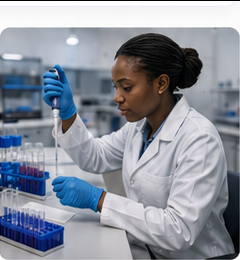
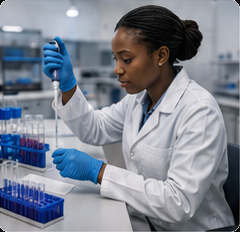
Strip remaining white header band from Solution photo

diff --git a/assets/genehus.css b/assets/genehus.css
@@ -634,7 +634,27 @@ h1, h2, h3 {
   line-height: 1.45;
 }
 
-.solution-image,
+.solution-image {
+  margin: 0;
+  border-radius: var(--radius-lg);
+  overflow: hidden;
+  background: #0a0a0a;
+  box-shadow: var(--shadow-lg);
+  border: 1px solid var(--border-dark);
+  line-height: 0;
+}
+
+.solution-image img {
+  width: 100%;
+  height: 100%;
+  display: block;
+  object-fit: cover;
+  object-position: center 20%;
+  border: none;
+  background: #0a0a0a;
+  aspect-ratio: 1 / 1.05;
+}
+
 .tech-image {
   margin: 0;
   border-radius: var(--radius-lg);
@@ -642,9 +662,9 @@ h1, h2, h3 {
   background: #0a0a0a;
   box-shadow: var(--shadow-lg);
   border: 1px solid var(--border-dark);
+  line-height: 0;
 }
 
-.solution-image img,
 .tech-image img {
   width: 100%;
   height: 100%;
@@ -653,10 +673,8 @@ h1, h2, h3 {
   object-position: center center;
   border: none;
   background: #0a0a0a;
+  aspect-ratio: 1 / 0.92;
 }
-
-.solution-image img { aspect-ratio: 1 / 1.05; }
-.tech-image img { aspect-ratio: 1 / 0.92; }
 
 .tech-grid {
   display: grid;

diff --git a/site.css b/site.css
@@ -634,7 +634,27 @@ h1, h2, h3 {
   line-height: 1.45;
 }
 
-.solution-image,
+.solution-image {
+  margin: 0;
+  border-radius: var(--radius-lg);
+  overflow: hidden;
+  background: #0a0a0a;
+  box-shadow: var(--shadow-lg);
+  border: 1px solid var(--border-dark);
+  line-height: 0;
+}
+
+.solution-image img {
+  width: 100%;
+  height: 100%;
+  display: block;
+  object-fit: cover;
+  object-position: center 20%;
+  border: none;
+  background: #0a0a0a;
+  aspect-ratio: 1 / 1.05;
+}
+
 .tech-image {
   margin: 0;
   border-radius: var(--radius-lg);
@@ -642,9 +662,9 @@ h1, h2, h3 {
   background: #0a0a0a;
   box-shadow: var(--shadow-lg);
   border: 1px solid var(--border-dark);
+  line-height: 0;
 }
 
-.solution-image img,
 .tech-image img {
   width: 100%;
   height: 100%;
@@ -653,10 +673,8 @@ h1, h2, h3 {
   object-position: center center;
   border: none;
   background: #0a0a0a;
+  aspect-ratio: 1 / 0.92;
 }
-
-.solution-image img { aspect-ratio: 1 / 1.05; }
-.tech-image img { aspect-ratio: 1 / 0.92; }
 
 .tech-grid {
   display: grid;

diff --git a/index.html b/index.html
@@ -9,7 +9,7 @@
   <link rel="preconnect" href="https://fonts.googleapis.com">
   <link rel="preconnect" href="https://fonts.gstatic.com" crossorigin>
   <link href="https://fonts.googleapis.com/css2?family=Inter:wght@400;500;600;700;800&family=Lora:wght@600;700&display=swap" rel="stylesheet">
-  <link rel="stylesheet" href="assets/genehus.css?v=46">
+  <link rel="stylesheet" href="assets/genehus.css?v=47">
 </head>
 <body>
 
@@ -228,7 +228,7 @@
         </div>
       </div>
       <figure class="solution-image">
-        <img src="assets/man_7.png?v=2" alt="Scientist using a pipette in a genomics laboratory" width="500" height="520" loading="lazy" decoding="async">
+        <img src="assets/man_7.png?v=3" alt="Scientist using a pipette in a genomics laboratory" width="500" height="520" loading="lazy" decoding="async">
       </figure>
     </div>
 
